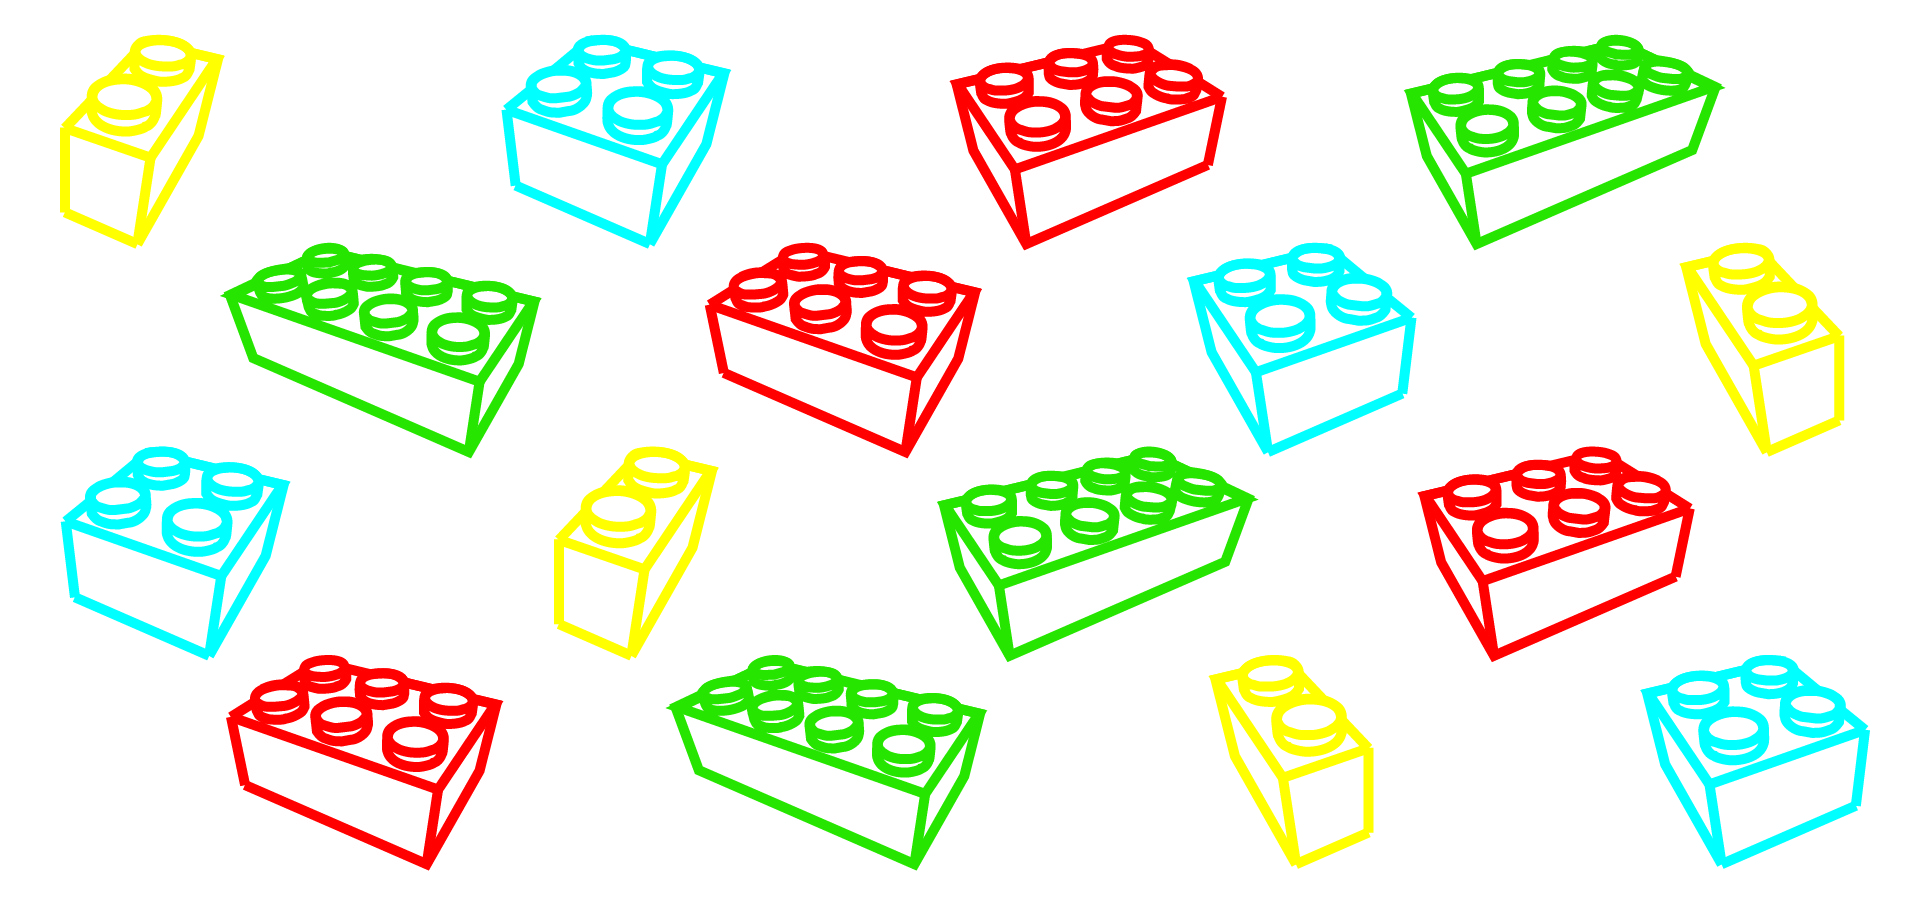
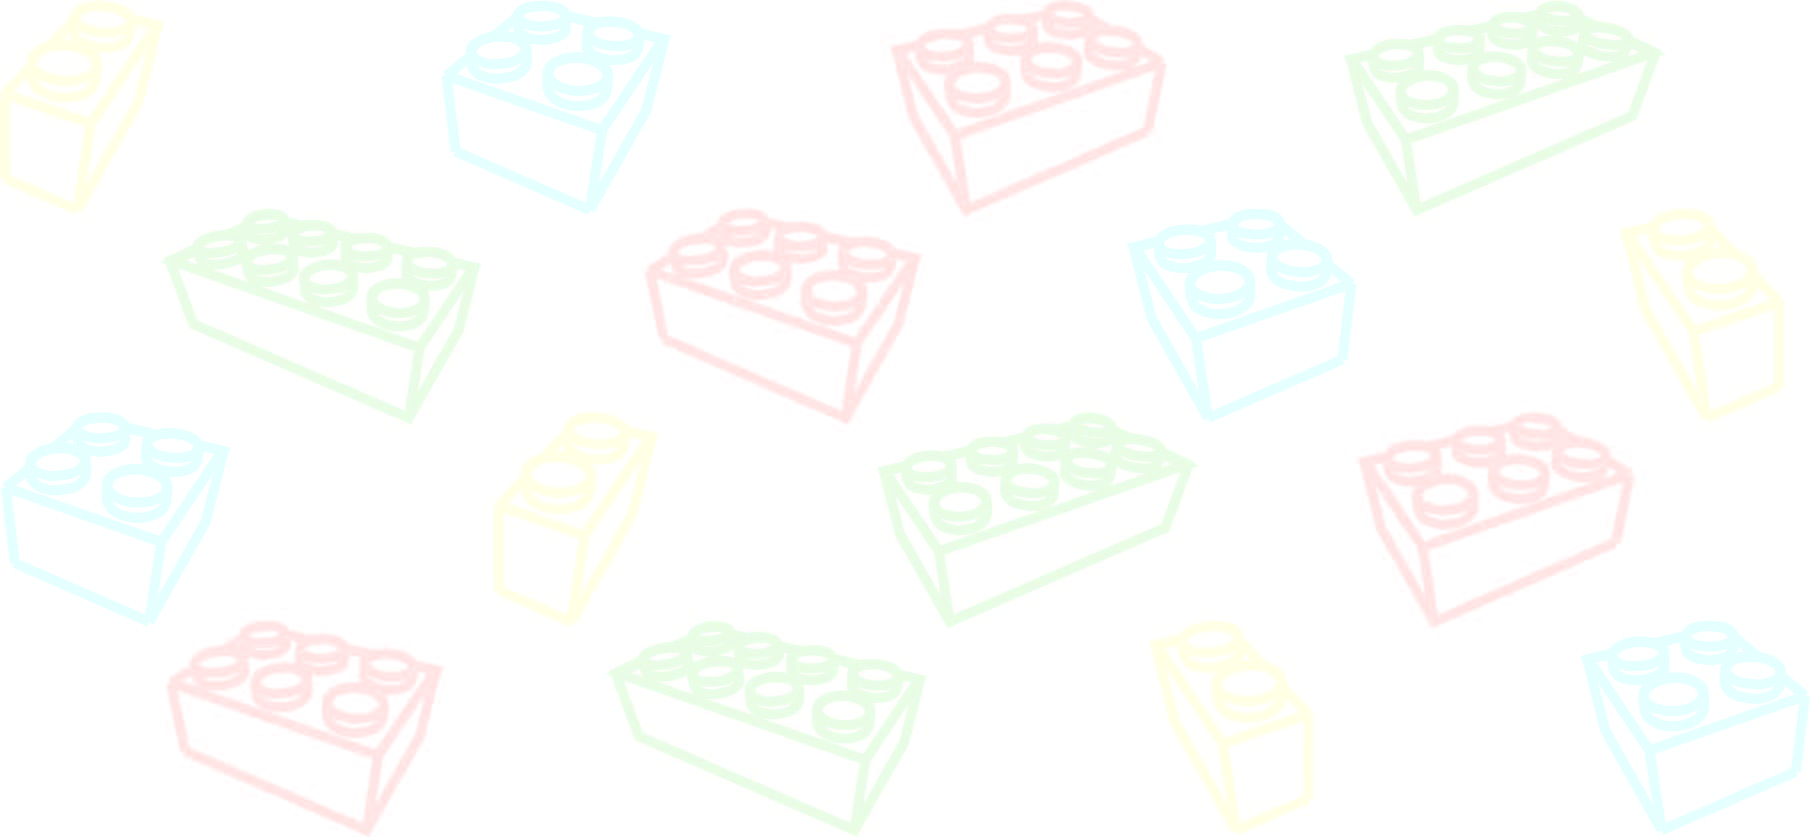
Actualizacion 12/12/2016
Cambio de imágenes de slide pagina de inicio y cambio de ancho a full
width del contenido

diff --git a/index.html b/index.html
@@ -96,7 +96,7 @@
           </ol>
           <div class="carousel-inner">
             <div class="item active">
-              <img alt="Bienvenid@" src="./img/carousel-1.jpg">
+              <img alt="Bienvenid@" src="./img/fotoSlideWeb1.jpg">
               <div class="container">
                 <div class="carousel-caption">
                   <h1>Example headline.</h1>
@@ -106,7 +106,7 @@
               </div>
             </div>
             <div class="item">
-              <img alt="Servicios" src="./img/carousel-2.jpg">
+              <img alt="Servicios" src="./img/fotoSlideWeb2.jpg">
               <div class="container">
                 <div class="carousel-caption">
                   <h1>Another example headline.</h1>
@@ -116,7 +116,7 @@
               </div>
             </div>
             <div class="item">
-              <img alt="Pedagogía" src="./img/carousel-3.jpg">
+              <img alt="Pedagogía" src="./img/fotoSlideWeb3.jpg">
               <div class="container">
                 <div class="carousel-caption">
                   <h1>Another example headline.</h1>
@@ -125,7 +125,7 @@
                 </div>
               </div>
             </div>
-            <div class="item">
+            <!-- <div class="item">
               <img alt="Instalaciones" src="./img/carousel-4.jpg">
               <div class="container">
                 <div class="carousel-caption">
@@ -144,7 +144,7 @@
                   <p><a class="btn btn-lg btn-primary" href="#" role="button">Learn more</a></p>
                 </div>
               </div>
-            </div>
+            </div> -->
           </div>
           <a class="left carousel-control" href="#carousel-id" data-slide="prev"><span class="glyphicon glyphicon-chevron-left"></span></a>
           <a class="right carousel-control" href="#carousel-id" data-slide="next"><span class="glyphicon glyphicon-chevron-right"></span></a>

diff --git a/css/bootstrap.css b/css/bootstrap.css
@@ -1099,7 +1099,7 @@ body {
   line-height: 1.42857143;
   color: #003867;
   background-color: #ffffff;
-  background: url(../img/FondoBlancoWEB.png);
+  background: url(../img/FondoBlancoWEB.jpg);
   background-size: 100%;
 }
 
@@ -1602,8 +1602,8 @@ pre code {
 .container {
   margin-right: auto;
   margin-left: auto;
-  padding-left: 15px;
-  padding-right: 15px;
+  padding-left: 0;
+  padding-right: 0;
 }
 @media (min-width: 768px) {
   .container {
@@ -1617,7 +1617,7 @@ pre code {
 }
 @media (min-width: 1200px) {
   .container {
-    width: 1170px;
+    width: 100%;
   }
 }
 .container-fluid {
@@ -4185,6 +4185,8 @@ select[multiple].input-group-sm > .input-group-btn > .btn {
   position: relative;
   min-height: 50px;
   margin-bottom: 22px;
+  padding-left: 15px;
+  padding-right: 15px;
   border: 1px solid transparent;
 }
 @media (min-width: 768px) {
@@ -6270,8 +6272,12 @@ button.close {
 .carousel-inner > .item > img,
 .carousel-inner > .item > a > img {
   line-height: 1;
-  height: 85vh;
+  height: 93vh;
   width: 100%;
+  display: inline;
+  vertical-align: top;
+  float: none;
+  clear: both;
 }
 @media all and (transform-3d), (-webkit-transform-3d) {
   .carousel-inner > .item {

diff --git a/css/loris-style.css b/css/loris-style.css
@@ -1,23 +1,28 @@
 .starter-template{
-    margin: 85px 0 0 0;
+  /*height: 93vh;*/
+  margin: 70px 0 0 0;
 }
 .lema-titulo{
-    font-size: 1.6rem;
+  font-size: 1.6rem;
 }
 .antes-vistas{
-    height: 85px;
-    width: 100%;
-    float: left;
+  height: 85px;
+  width: 100%;
+  float: left;
 }
 .vistas{
-    min-height: 86vh;
-    background: rgba(255, 255, 255, .9);
-    border-radius: 10px;
-    border: 8px solid #FF7F00;
-    font-family: Kindergarten;
+  min-height: 86vh;
+  background: rgba(255, 255, 255, .6);
+  border-radius: 10px;
+  border: 8px solid #FF7F00;
+  font-family: Kindergarten;
 }
 .vistas:last-child{
     margin-bottom: 15px;
+}
+.carousel-caption {
+  background: rgba(0, 0, 0, .4);
+  border-radius: 10px;
 }
 
 @media (max-width: 360px) {
